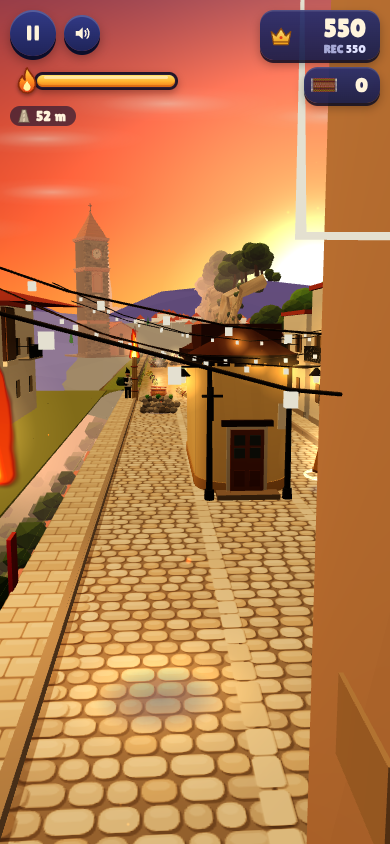
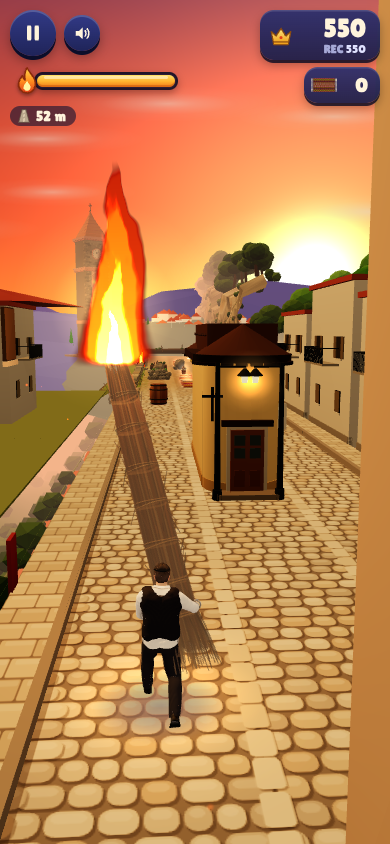
split: niente fili sopra i blocchi, blocchi piu' stretti, lampioni verso il centro, via le lastre scure; nuovi screenshot

diff --git a/src/game/biomes/builders/gadoni5.js b/src/game/biomes/builders/gadoni5.js
@@ -72,8 +72,6 @@ export function buildVicolo(len = 26) {
   k.add(G.box(0.9, 0.06, 0.06), '#2a2d31', { x: R * (E - 0.45), y: 6.2, z: -23 });
   k.add(G.cyl(0.05, 0.32, 0.2, 8), '#c8ccd0', { x: R * (E - 0.95), y: 6.05, z: -23 });
   k.add(G.cyl(0.14, 0.14, 0.06, 8), '#fff0c8', { x: R * (E - 0.95), y: 5.94, z: -23, unlit: true });
-  // lastre di scisto sui marciapiedi (pavimento del vicolo ai lati)
-  for (let i = 0; i < 26; i++) { const s = r.chance(0.5) ? -1 : 1; k.add(G.box(r.range(0.6, 1.1), 0.05, r.range(0.6, 1.2)), r.pick(['#6f6a62', '#7d776d', '#625d56']), { x: s * r.range(5.8, 6.8), y: 0.16, z: -r.range(0.5, len - 0.5), ry: r.range(-0.4, 0.4) }); }
   centralBlock(k, r, BLOCK_LEN);
   return k.build({ ao: 0.25 });
 }
@@ -81,7 +79,7 @@ export function buildVicolo(len = 26) {
 // v5 split: blocco di case IN MEZZO alla via (da z = 0 a z = -len, |x| <= BW): la strada si divide in due
 // vicoli stretti. Lato sinistro: portone verde ad arco con lunetta a raggiera; lato destro: porta azzurra e
 // balcone di ferro azzurro; in testa (verso chi arriva) uno spigolo d'intonaco consumato con finestra e lampione.
-export const BLOCK_LEN = 20, BLOCK_W = 1.9;
+export const BLOCK_LEN = 20, BLOCK_W = 1.5;
 function centralBlock(k, r, len) {
   const BW = BLOCK_W, H = 9.5;
   for (let z0 = 0; z0 > -len; z0 -= 4) {
@@ -126,11 +124,9 @@ function centralBlock(k, r, len) {
   for (const sd of [-1, 1]) P(0.1, sd * 0.4, 5.7, G.box(0.1, 2.1, 0.75), '#2a7ad8', { unlit: true });
   P(0.05, 2.4, 4.75, G.cyl(0.05, 0.05, 9.5, 5), '#c97a6a');
   windowFace(k, xr, 6.4, -4, R, '#2f8cf0', true); windowFace(k, xr, 3.4, -4, R, '#6b5a44');
-  // lastricato di scisto dei due vicoli
-  for (let i = 0; i < 30; i++) { const s = r.chance(0.5) ? -1 : 1; k.add(G.box(r.range(0.6, 1.1), 0.05, r.range(0.6, 1.2)), r.pick(['#6f6a62', '#7d776d', '#625d56']), { x: s * r.range(2.3, 5.2), y: 0.14, z: -r.range(0.5, len - 0.5), ry: r.range(-0.4, 0.4) }); }
 }
 
-export const CAP_RAD = 1.9, CAP_LEN = 11;
+export const CAP_RAD = 1.6, CAP_LEN = 11;
 export function buildCappella() {
   const k = new Kit(5201), r = rng(5201);
   // v5 split: cappella tonda IN MEZZO alla via (pianta ovale, da z = 0 a z = -CAP_LEN): si gira a sinistra o a destra
@@ -158,7 +154,7 @@ export function buildCappella() {
   F(ct, 3.6, G.box(0.1, 1.3, 0.06), '#1e1b1a', { dz: 0.04 }); F(ct, 3.9, G.box(0.8, 0.1, 0.06), '#1e1b1a', { dz: 0.04 });
   F(-1.35, 3.1, G.box(0.32, 1.0, 0.08), '#ece6d8', { dz: 0.02 });
   // lampioni di ferro ai due lati dello sdoppiamento
-  streetLamp(k, -1.5, 0.6, 1); streetLamp(k, 1.5, 0.6, -1);
+  streetLamp(k, -1.2, 0.6, -1); streetLamp(k, 1.2, 0.6, 1);   // bracci verso il centro: niente sopra le corsie
   // case bianche con balconi dietro, e di la' dal ramo
   for (const [x, z, w, h, d] of [[21, -4, 7, 8.5, 7], [21, -13.5, 7, 9.5, 8], [16.5, -24, 9, 8, 6]]) {
     k.add(G.box(d, h, w), r.pick(['#eeeae2', '#e6e2d8', '#f2efe8']), { x, y: h / 2, z, vary: 0.05 });

diff --git a/src/game/sim.js b/src/game/sim.js
@@ -12,7 +12,7 @@ import { Generator, SOLID, DESTRUCTIBLE, PICKUP_KINDS, BIOME_KINDS, MASK_KINDS, 
 import { randomSeed, makeRng } from '../systems/rng.js';
 export const DANCE_DIRS = ['left', 'down', 'up', 'right'];
 
-export const HALF_W = { muretto: 12, botte: 7, bottecoricata: 11, botti: 12, pozza: 9, narrow: 17, goat: 7, rollbarrel: 7, rollin: 7, sasso: 8, bagnato: 9, trave: 60, maimoni: 8, fune: 26, fuso: 7, asfodelo: 10, ferula: 10, tappeto: 11, pistola: 11, split: 19 };
+export const HALF_W = { muretto: 12, botte: 7, bottecoricata: 11, botti: 12, pozza: 9, narrow: 17, goat: 7, rollbarrel: 7, rollin: 7, sasso: 8, bagnato: 9, trave: 60, maimoni: 8, fune: 26, fuso: 7, asfodelo: 10, ferula: 10, tappeto: 11, pistola: 11, split: 16 };
 export const ATTRACT_SPEED = 34;
 const PLAYER_BACK = 3, PLAYER_FRONT = 5, PLAYER_HALF = 3;
 export const GUTTER = 4;

diff --git a/src/game/biomes/builders/church.js b/src/game/biomes/builders/church.js
@@ -296,7 +296,7 @@ export function buildChurchSquare(seed = 1) {
   // tanti fili di luci a raggiera dalla cima del campanile: attraverso la via verso la chiesa, la capanna,
   // le case dei due lati prima e dopo la piazza
   // v5s12: fili di luci a zig-zag ATTRAVERSO la via (target4), da una facciata all'altra
-  for (let z = 30; z > -70; z -= 4.5) {
+  for (let z = 30; z > -24; z -= 4.5) {   // v5 split: niente fili sopra il vicolo in mezzo alla via (da 168 m)
     const y1 = 7.6 + r.range(-0.5, 0.5), y2 = 7.6 + r.range(-0.5, 0.5);
     catenary(k, new THREE.Vector3(7.0, y1, z), new THREE.Vector3(-7.0, y2, z - 2.2), r.range(1.2, 2.0), true, lamps, 0.9, 7);
   }

diff --git a/src/game/biomes/env.js b/src/game/biomes/env.js
@@ -714,7 +714,7 @@ export class Env {
       root.scale.x = -1;
       cached('cappella', () => buildCappella());
       cached('cappellaL', () => buildCappellaLeft());
-      for (const x of [-2.5, 2.5]) lamps.push(this.lamp(x, 4.5, 0.6 - W, '#ffd890', 2.4, 0.7));
+      for (const x of [-0.2, 0.2]) lamps.push(this.lamp(x, 4.5, 0.6 - W, '#ffd890', 2.4, 0.7));
     } else if (id === 'pinnacle') {
       const m = cached('pinnacle', () => N.buildPinnacle(3)); m.position.set(-30, 0, 0); m.rotation.y = 0.4;    // nella valle a SINISTRA del sentiero: a destra c'e' la fiamma che la coprirebbe
     } else if (id === 'valley') {

diff --git a/src/config.js b/src/config.js
@@ -296,5 +296,5 @@ export const SPLIT = {
   ],
   CLEAR_BEFORE_M: 42,                        // niente altri ostacoli da qui fino alla fine del blocco
   CLEAR_AFTER_M: 12,                         // dopo il blocco: tempo per tornare in mezzo
-  HALF_W: 19,                                // px: mezza larghezza del blocco (corsie laterali a 34 px restano libere)
+  HALF_W: 16,                                // px: mezza larghezza del blocco (corsie laterali a 34 px restano libere)
 };

diff --git a/tests/shots_split.py b/tests/shots_split.py
@@ -2,8 +2,8 @@
 import asyncio, json, sys
 from playwright.async_api import async_playwright
 URL = 'http://127.0.0.1:4799/'
-SHOTS = {0: [(150, 'avvicinamento-vicolo'), (174, 'vicolo-sinistra'), (190, 'avvicinamento-cappella'), (209, 'cappella-sinistra')],
-         2: [(176, 'vicolo-destra'), (210, 'cappella-destra')]}
+SHOTS = {0: [(150, 'avvicinamento-vicolo'), (170, 'vicolo-sinistra'), (190, 'avvicinamento-cappella'), (207, 'cappella-sinistra')],
+         2: [(170, 'vicolo-destra'), (179, 'vicolo-destra-porta'), (207, 'cappella-destra')]}
 async def main():
     async with async_playwright() as p:
         b = await p.chromium.launch(executable_path='/usr/bin/google-chrome', args=['--use-angle=swiftshader', '--enable-unsafe-swiftshader', '--ignore-gpu-blocklist'])
